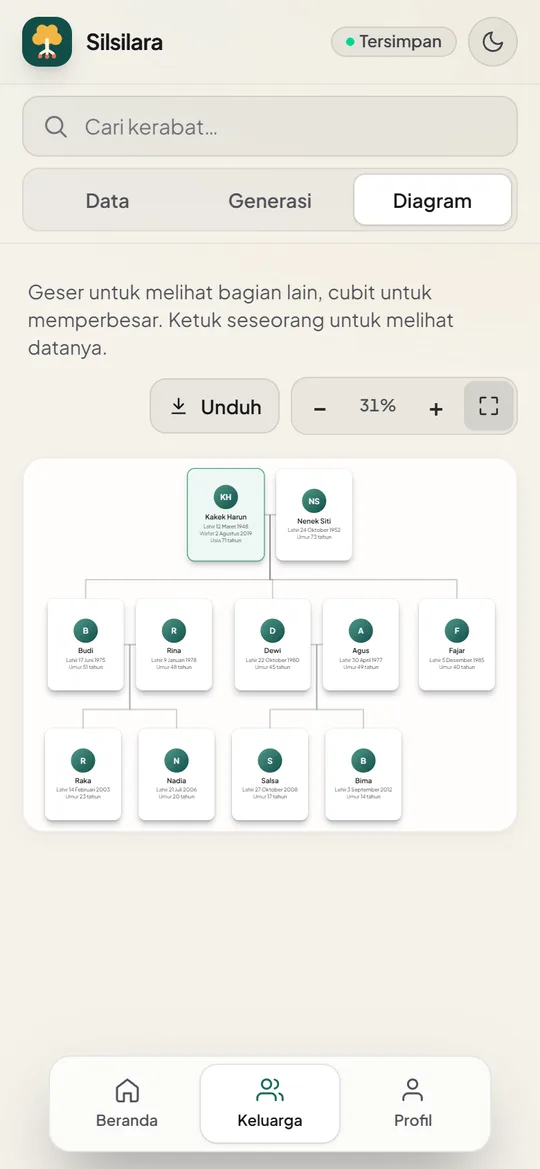
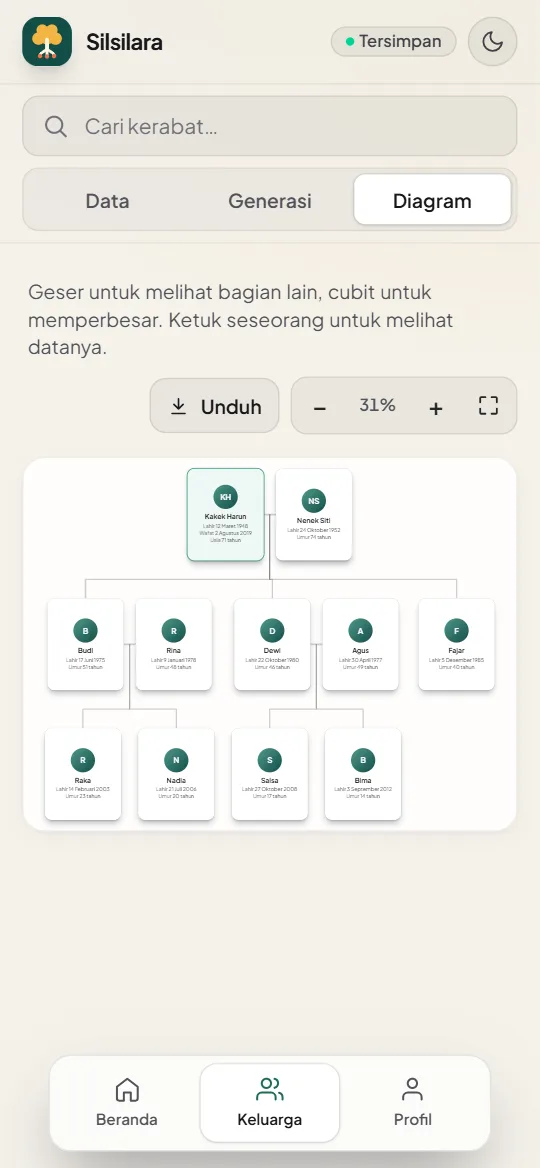
Halaman unduhan: screenshot tampilan 1.0.1 & info cadangan 1.0.1
Screenshot Beranda, Data, Generasi, dan Diagram diambil ulang dari versi 1.0.1
(kartu cerita keluarga per generasi di Beranda), dengan keluarga fiktif yang sama
seperti sebelumnya. Info cadangan (bila server tak terjangkau) jadi 1.0.1,
23 Oktober 2026; teks alt gambar Beranda disesuaikan.

diff --git a/index.html b/index.html
@@ -52,7 +52,7 @@
       </div>
 
       <dl class="statistik">
-        <div><dt>Versi</dt><dd id="info-versi">1.0.0</dd></div>
+        <div><dt>Versi</dt><dd id="info-versi">1.0.1</dd></div>
         <div><dt>Ukuran</dt><dd id="info-ukuran">3,7 MB</dd></div>
         <div><dt>Android</dt><dd>5.1+</dd></div>
         <div><dt>Harga</dt><dd>Gratis</dd></div>
@@ -67,12 +67,12 @@
         <div class="tombol-unduh">
           <a id="tombol-apk" class="tombol utama" href="https://drive.google.com/file/d/1Hh8MQob9FURyE4IEnIYITX2PwrefJFdv/view" rel="noopener">
             <svg aria-hidden="true" viewBox="0 0 24 24" width="22" height="22"><path fill="currentColor" d="M11 4h2v9.17l3.59-3.58L18 11l-6 6-6-6 1.41-1.41L11 13.17zM5 18h14v2H5z"/></svg>
-            <span>Unduh APK <span id="tombol-versi">1.0.0</span></span>
+            <span>Unduh APK <span id="tombol-versi">1.0.1</span></span>
           </a>
           <a id="tombol-web" class="tombol kedua" href="https://silsilara.com" rel="noopener">Buka versi web</a>
         </div>
         <p class="kecil catatan-unduh">
-          Diperbarui <span id="info-tanggal">20 Oktober 2026</span>. APK diunduh dari Google Drive. Bila muncul peringatan
+          Diperbarui <span id="info-tanggal">23 Oktober 2026</span>. APK diunduh dari Google Drive. Bila muncul peringatan
           pemindaian virus, ketuk <strong>Tetap download</strong> (<em>Download anyway</em>).
         </p>
 
@@ -95,7 +95,7 @@
       <section aria-labelledby="judul-layar">
         <h2 id="judul-layar">Tampilan aplikasi</h2>
         <div class="layar">
-          <img src="gambar/1-beranda.webp" alt="Beranda: jumlah anggota, ulang tahun terdekat, anggota tertua dan termuda" width="270" height="584" loading="lazy" />
+          <img src="gambar/1-beranda.webp" alt="Beranda: ringkasan keluarga per generasi dan ulang tahun terdekat" width="270" height="584" loading="lazy" />
           <img src="gambar/4-diagram.webp" alt="Diagram pohon keluarga tiga generasi" width="270" height="584" loading="lazy" />
           <img src="gambar/2-data.webp" alt="Data anggota dengan sebutan hubungan otomatis: pasangan, anak, cucu, menantu" width="270" height="584" loading="lazy" />
           <img src="gambar/3-generasi.webp" alt="Daftar anggota per generasi" width="270" height="584" loading="lazy" />
@@ -112,7 +112,7 @@
         <h2 id="judul-pasang">Cara memasang di HP Android</h2>
         <ol class="langkah">
           <li>Ketuk <strong>Unduh APK</strong> di atas. Google Drive terbuka; ketuk tombol unduh, lalu <strong>Tetap download</strong> bila diminta.</li>
-          <li>Setelah selesai, buka berkas <strong>Silsilara-<span class="versi-teks">1.0.0</span>.apk</strong> dari notifikasi unduhan atau dari aplikasi <em>File</em> → <em>Download</em>.</li>
+          <li>Setelah selesai, buka berkas <strong>Silsilara-<span class="versi-teks">1.0.1</span>.apk</strong> dari notifikasi unduhan atau dari aplikasi <em>File</em> → <em>Download</em>.</li>
           <li>Bila muncul pesan bahwa HP tidak diizinkan memasang aplikasi dari sumber ini, ketuk <strong>Setelan</strong>, nyalakan <strong>Izinkan dari sumber ini</strong>, lalu kembali.</li>
           <li>Ketuk <strong>Instal</strong>. Bila Google Play Protect memberi peringatan, ketuk <strong>Detail lainnya</strong> → <strong>Tetap instal</strong>. Peringatan ini muncul karena Silsilara tidak dipasang lewat Play Store.</li>
           <li>Buka Silsilara dan ketuk <strong>Masuk dengan Google</strong>.</li>
